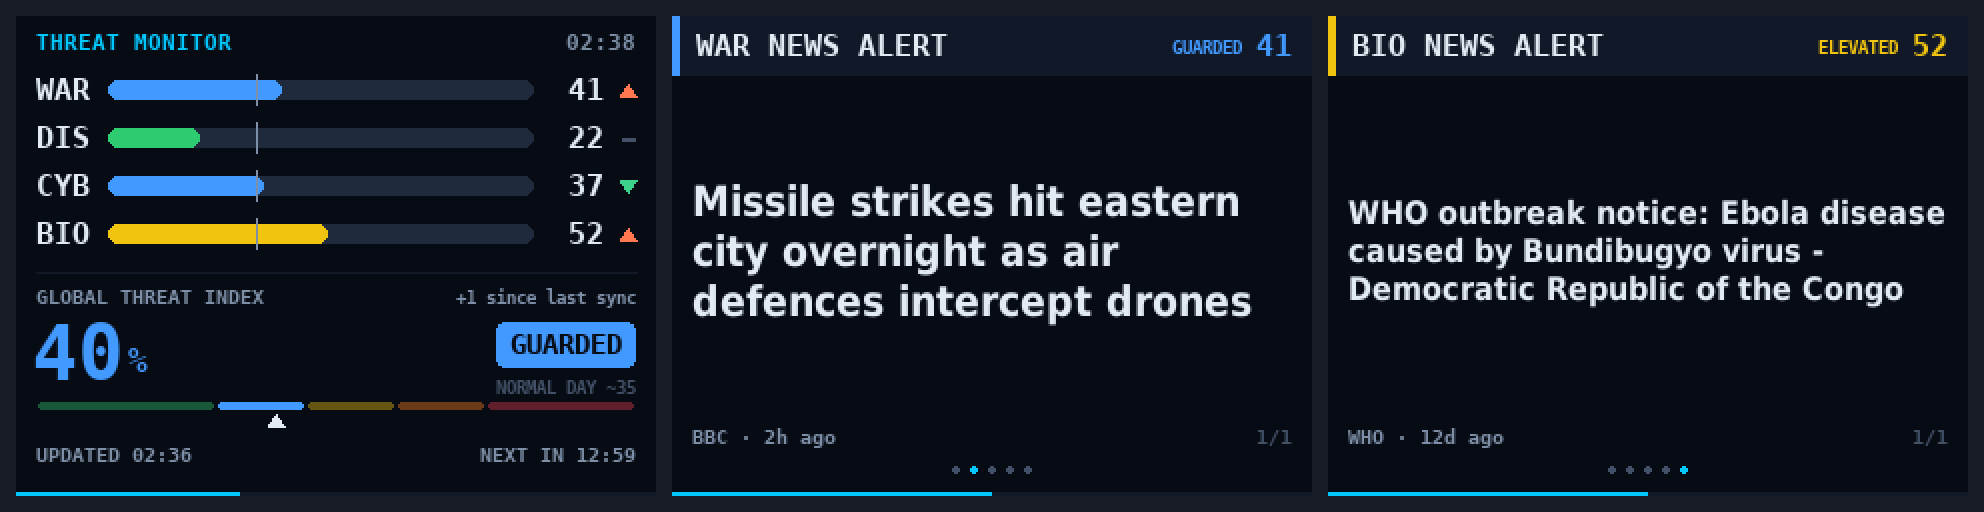
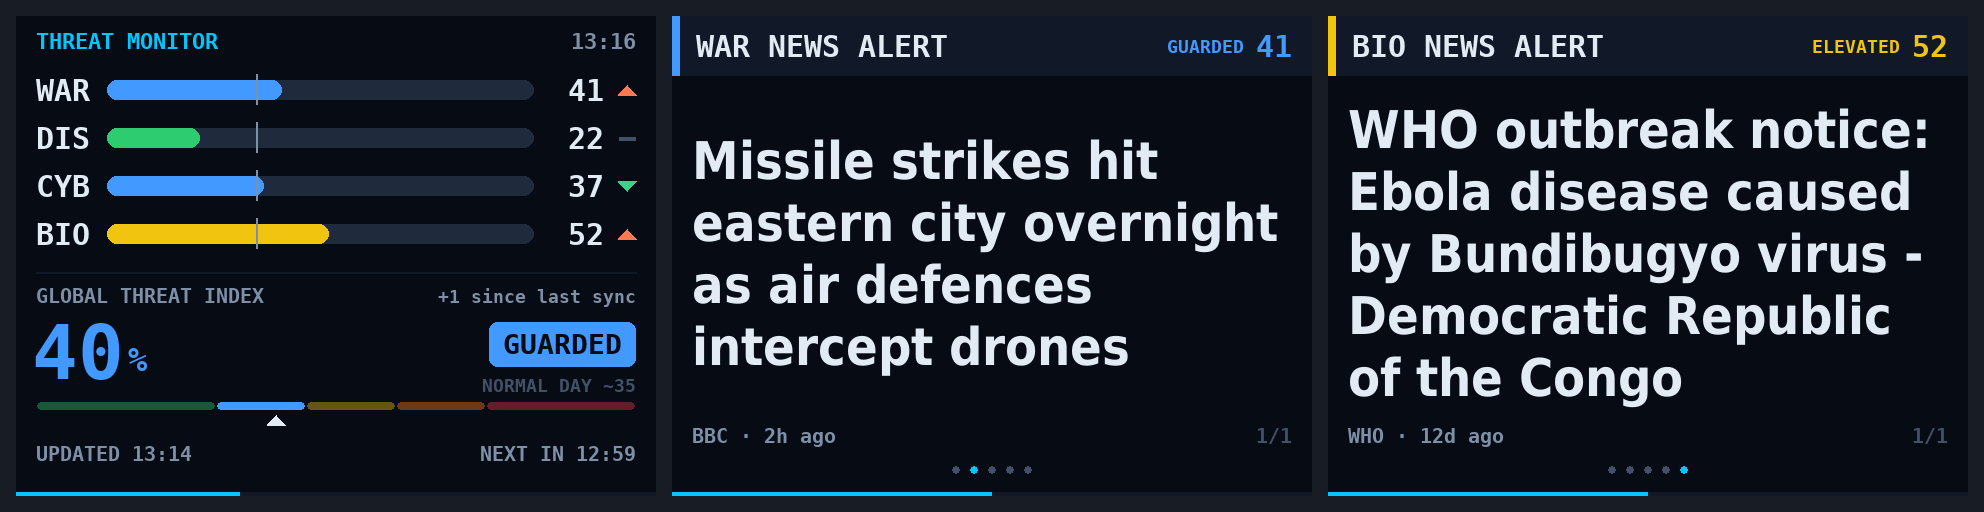
Headlines: one fixed, larger size (26) on every screen, up to 5 lines; smarter summaries (v3.6)
- Fixed headline size fills the empty space above and below the text, the
  same on the Raspberry Pi, the Windows screensaver and the Mac screensaver
- Too-long headlines are summarized at a natural break (subtitle after a
  colon, second sentence, comma, 'and/with/over/near/...'), drop trailing
  '| Publisher' and CVE numbers; '…' only when there is no break at all
- GDACS lists of many countries become 'Austria, Bosnia & Herzegovina and 27 more countries'
- Swift port and its parity tests updated to match

Claude-Session: https://claude.ai/code/session_01Vdy2ZLRvBpwGpUEKWRefAa

diff --git a/mac/Sources/Core/Condense.swift b/mac/Sources/Core/Condense.swift
@@ -22,6 +22,7 @@ enum Text {
     static let magRx = Rx(#"\(Magnitude\s*([\d.]+)\s*M?[^)]*\)"#)
     static let gdacsDateRx = Rx(#"\s+\d{1,2}/\d{1,2}/\d{4}\s+\d{1,2}:\d{2}(:\d{2})?\s*UTC"#)
     static let mmiRx = Rx(#"\b(Few people affected|\d[\d.,]*(?: thousand| million)?)\s+in MMI ([IVX]+)\b"#, ci: true)
+    static let placesRx = Rx(#"^(.*?\bin )([A-Z][^,]*(?:, [A-Z][^,]*){3,}),?\s*$"#)
     static let mmiWords: [String: String] = [
         "I": "unfelt", "II": "weak", "III": "weak", "IV": "light", "V": "moderate",
         "VI": "strong", "VII": "very strong", "VIII": "severe", "IX": "violent", "X": "extreme",
@@ -39,6 +40,17 @@ enum Text {
             let people = who.lowercased().hasPrefix("few") ? "few people" : "\(who) people"
             return "\(people) in \(mmiWords[level.uppercased()] ?? "MMI " + level) shaking"
         }
+        // "Drought is on going in Austria, Belgium, ... Ukraine," (29 countries) ->
+        // "Drought is on going in Austria, Belgium and 27 more countries"
+        if let m = placesRx.matches(t).first {
+            let ns = t as NSString
+            let lead = Rx.group(m, 1, ns) ?? ""
+            let places = (Rx.group(m, 2, ns) ?? "").components(separatedBy: ",")
+                .map { $0.trimmingCharacters(in: .whitespacesAndNewlines) }.filter { !$0.isEmpty }
+            if places.count >= 4 {
+                t = "\(lead)\(places[0]), \(places[1]) and \(places.count - 2) more countries"
+            }
+        }
         return Py.strip(Py.join(t), ". ", left: false)
     }
 
@@ -48,6 +60,7 @@ enum Text {
     static let tailRxs: [Rx] = [
         Rx(#"\s*[|–—-]\s*(live( updates| blog)?|as it happened|latest( updates)?|report|video|photos|opinion|analysis|explainer)\s*$"#, ci: true),
         Rx(#",?\s+according to [^,;]+$"#, ci: true),
+        Rx(#"\s+\|\s+[^|]{2,40}$"#),                         // "... | Newswise"
         Rx(#",\s+(\S+\s+){0,3}(says?|said|reports?|reported|claims?|claimed|warns?|warned|confirms?|confirmed|announces?|announced)\s*$"#, ci: true),
     ]
     static let leadAttrRx = Rx(#"^(officials?|police|authorities|reports?|sources|witnesses|experts?|analysts?|scientists|researchers|state media|residents)\s+(say|said|warn|warned|fear|believe|confirm|confirmed)\s+(that\s+)?"#, ci: true)
@@ -70,12 +83,15 @@ enum Text {
         (Rx(#"(?i)\btelecommunications\b"#), "telecoms"),
         (Rx(#"(?i)\bgovernment\b"#), "govt"),
         (Rx(#"\bVulnerability\b"#), "flaw"),
+        (Rx(#"\bCVE-\d{4}-\d+:?\s*"#), ""),                // CISA: the number means little on screen
     ]
     static let fillerRx = Rx(#"\b(a|an|the|reportedly|currently)\s+"#, ci: true)
     /// Where a trailing clause can be dropped.
     static let clauseRx = Rx(#"(;\s|,\s(?=(?:as|after|while|amid|with|despite|which|who|but|before|including|where|when|days|weeks|hours|months)\b)|,\s(?=[a-z][a-z-]*ing\b)|\s(?=(?:as|after|amid|while|despite|ahead of|that|which|days after|weeks after|hours after)\s))"#, ci: true)
     /// " - DR Congo": often a place, so cut last.
     static let dashRx = Rx(#"\s[–—-]\s"#)
+    /// Last resort before "…": any natural break, longest summary first.
+    static let cutRx = Rx(#"(:\s|(?:(?<=\w\w[?!])|(?<=[a-z]{3}\.))\s|,\s|\s(?=(?:[Aa]nd|[Ww]ith|[Ww]ithout|[Nn]ear|[Oo]ver|[Ff]or|[Ff]rom|[Ii]nto|[Vv]ia|[Tt]o|[Ii]n [Hh]onou?r [Oo]f)\s))"#)
     static let clauseMinWords = 6
     static let dangling: Set<String> = [
         "a", "an", "the", "and", "or", "of", "to", "in", "on", "at", "for", "with", "by", "from",
@@ -133,6 +149,8 @@ enum Text {
             }
         }
         clauseCuts(t, dashRx)
+        // 6. last resort: the longest part that ends at any natural break
+        clauseCuts(t, cutRx)
         return (seen, tidy(t))
     }
 
@@ -158,7 +176,8 @@ enum Text {
 
     /// Every pattern used for headlines (the tests compare them with Python).
     static var allRx: [Rx] {
-        [suffixRx, normRx, magRx, gdacsDateRx, mmiRx, labelRx, bracketRx, leadAttrRx, fillerRx, clauseRx, dashRx]
+        [suffixRx, normRx, magRx, gdacsDateRx, mmiRx, placesRx, labelRx, bracketRx, leadAttrRx, fillerRx, clauseRx,
+         dashRx, cutRx]
             + tailRxs + abbreviations.map { $0.rx }
     }
 }

diff --git a/mac/Sources/Saver/Renderer.swift b/mac/Sources/Saver/Renderer.swift
@@ -63,7 +63,7 @@ final class Renderer {
     private var oy: CGFloat = 0
     private var m: CGFloat = 10
     private var fonts: [String: NSFont] = [:]
-    private var layouts: [String: (lines: [String], size: Int)] = [:]
+    private var layouts: [String: [String]] = [:]
     private var anim: [String: Double] = [:]
     private var gtiAnim: Double?
     private let clock: DateFormatter = {
@@ -206,32 +206,30 @@ final class Renderer {
         return lines
     }
 
-    /// A headline in at most 3 lines: the original at the largest size that
-    /// fits, else the gentlest condensed version that fits, else a "…" cut.
-    func headlineLayout(_ str: String, _ maxW: CGFloat) -> (lines: [String], size: Int) {
-        let key = "\(maxW)|\(str)"
+    /// How many headline lines fit in the headline area (at most headlineMaxLines).
+    func headlineLines() -> Int {
+        let lh = (lineHeight(font(.sans, CGFloat(TM.headlineSize))) * 1.02).rounded(.down)
+        let room = s(CGFloat(TM.headlineArea.bottom)) - s(CGFloat(TM.headlineArea.top))
+        return max(1, min(TM.headlineMaxLines, Int(room / max(1, lh))))
+    }
+
+    /// A headline at the fixed headline size in at most `maxLines` lines: the
+    /// original if it fits, else the gentlest summary that fits, else a "…" cut.
+    func headlineLayout(_ str: String, _ maxW: CGFloat, _ maxLines: Int) -> [String] {
+        let key = "\(maxW)|\(maxLines)|\(str)"
         if let hit = layouts[key] { return hit }
-        let big = TM.headlineSizes.big, small = TM.headlineSizes.small
-        var result: (lines: [String], size: Int)?
+        let f = font(.sans, CGFloat(TM.headlineSize))
+        let fits: (String) -> Bool = { self.wrapLines($0, f, maxW).count <= maxLines }
         let steps = Text.condenseSteps(str)
-        search: for cand in steps.steps {
-            for size in stride(from: big, through: small, by: -1) {
-                let lines = wrapLines(cand, font(.sans, CGFloat(size)), maxW)
-                if lines.count <= TM.headlineMaxLines {
-                    result = (lines, size)
-                    break search
-                }
-            }
-        }
-        if result == nil {
-            let f = font(.sans, CGFloat(small))
-            let cut = Text.truncateWords({ self.wrapLines($0, f, maxW).count <= TM.headlineMaxLines }, steps.condensed)
-            result = (wrapLines(cut, f, maxW), small)
+        let lines: [String]
+        if let best = steps.steps.first(where: fits) {
+            lines = wrapLines(best, f, maxW)
+        } else {
+            lines = wrapLines(Text.truncateWords(fits, steps.condensed), f, maxW)
         }
         if layouts.count > 200 { layouts.removeAll() }
-        let r: (lines: [String], size: Int) = result ?? (lines: [str], size: small)
-        layouts[key] = r
-        return r
+        layouts[key] = lines
+        return lines
     }
 
     // ---- animation of bar lengths only (numbers are always exact) ----------
@@ -435,12 +433,12 @@ final class Renderer {
             colour = Palette.text
         }
 
-        let top = y(40), bottom = y(196)
-        let lay = headlineLayout(title, W - 2 * m)
-        let f = font(.sans, CGFloat(lay.size))
+        let top = y(CGFloat(TM.headlineArea.top)), bottom = y(CGFloat(TM.headlineArea.bottom))
+        let lines = headlineLayout(title, W - 2 * m, headlineLines())
+        let f = font(.sans, CGFloat(TM.headlineSize))
         let lh = (lineHeight(f) * 1.02).rounded(.down)
-        let ty = top + max(0, ((bottom - top - CGFloat(lay.lines.count) * lh) / 2).rounded(.down))
-        for (i, l) in lay.lines.enumerated() {
+        let ty = top + max(0, ((bottom - top - CGFloat(lines.count) * lh) / 2).rounded(.down))
+        for (i, l) in lines.enumerated() {
             text(l, f, colour, CGPoint(x: m, y: ty + CGFloat(i) * lh))
         }
 

diff --git a/mac/Tests/CoreTests/main.swift b/mac/Tests/CoreTests/main.swift
@@ -125,6 +125,7 @@ checkPattern("lead", Text.leadAttrRx, cp["lead"])
 checkPattern("filler", Text.fillerRx, cp["filler"])
 checkPattern("clause", Text.clauseRx, cp["clause"])
 checkPattern("dash", Text.dashRx, cp["dash"])
+checkPattern("cut", Text.cutRx, cp["cut"])
 let tails = arr(cp["tails"])
 expect("patterns", tails.count == Text.tailRxs.count, "tail pattern count")
 for (i, t) in tails.enumerated() where i < Text.tailRxs.count { checkPattern("tail \(i)", Text.tailRxs[i], t) }
@@ -179,7 +180,7 @@ let swiftConstants: [String: Any] = [
     "GOOGLE_NEWS": TM.googleNews, "GTI_WEIGHTS": TM.gtiWeights, "DEFAULT_NORMAL": TM.defaultNormal,
     "GDACS_GREEN_BY_TYPE": TM.gdacsGreenByType, "GDACS_LEVEL": TM.gdacsLevel, "USGS_PAGER": TM.usgsPager,
     "CAT_NAMES": TM.catNames, "EMPTY_MSG": TM.emptyMsg, "MMI_WORDS": Text.mmiWords, "CATS": TM.cats,
-    "HEADLINE_SIZES": [TM.headlineSizes.big, TM.headlineSizes.small],
+    "HEADLINE_SIZE": TM.headlineSize, "HEADLINE_AREA": [TM.headlineArea.top, TM.headlineArea.bottom],
     "DANGLING": Array(Text.dangling).sorted(), "COMPONENT_KEYS": Config.componentKeys.sorted(),
 ]
 var gc = obj(golden["constants"])

diff --git a/mac/Sources/Core/Config.swift b/mac/Sources/Core/Config.swift
@@ -75,8 +75,9 @@ enum TM {
     static let mainSecs: Double = 12
     static let catSecs: Double = 8
     static let fadeSecs: Double = 0.25
-    static let headlineMaxLines = 3
-    static let headlineSizes: (big: Int, small: Int) = (21, 16)
+    static let headlineSize = 26             // fixed headline font, in 320x240 units
+    static let headlineMaxLines = 5          // longer headlines are summarized to fit
+    static let headlineArea: (top: Int, bottom: Int) = (38, 200)
     static let levels: [(limit: Int, name: String)] = [
         (30, "LOW"), (45, "GUARDED"), (60, "ELEVATED"), (75, "HIGH"), (101, "SEVERE"),
     ]

diff --git a/threat_monitor.py b/threat_monitor.py
@@ -1,6 +1,6 @@
-# SYSTEM THREAT MONITOR  v3.5
+# SYSTEM THREAT MONITOR  v3.6
 # Created and maintained by Oliver Kuy - https://github.com/kuydigital/threat_monitor
-# Revised: Sunday, October 11, 2026, 1:34 AM (Philippine time)
+# Revised: Wednesday, October 14, 2026, 1:40 PM (Philippine time)
 #
 # Run:   python3 threat_monitor.py                    (fullscreen, live data)
 #        python3 threat_monitor.py --windowed 320x240 (in a window)
@@ -27,9 +27,10 @@
 #     or crashed sync can never leave the screen on "Contacting sources", the
 #     background fetcher restarts itself if it ever stops, and everything is
 #     logged to threat_monitor.log next to this script.
-#   * Headlines are shown in at most 3 lines; longer ones are condensed
-#     (labels, attributions and filler removed, names abbreviated, trailing
-#     clauses dropped) and only cut with "…" as a last resort.
+#   * Headlines use one fixed, large size on every screen (HEADLINE_SIZE) in
+#     at most 5 lines; longer ones are summarized (labels, attributions and
+#     filler removed, names abbreviated, trailing clauses and subtitles
+#     dropped at a natural break) and only cut with "…" as a last resort.
 # -----------------------------------------------------------------------------
 
 import argparse
@@ -565,6 +566,12 @@ def tidy_gdacs_title(title):
         who = "few people" if m.group(1).lower().startswith("few") else f"{m.group(1)} people"
         return f"{who} in {MMI_WORDS.get(m.group(2).upper(), 'MMI ' + m.group(2))} shaking"
     t = re.sub(r"\b(Few people affected|\d[\d.,]*(?: thousand| million)?)\s+in MMI ([IVX]+)\b", mmi, t, flags=re.I)
+    # "Drought is on going in Austria, Belgium, ... Ukraine," (29 countries) ->
+    # "Drought is on going in Austria, Belgium and 27 more countries"
+    m = re.match(r"^(.*?\bin )([A-Z][^,]*(?:, [A-Z][^,]*){3,}),?\s*$", t)
+    if m:
+        places = [p.strip() for p in m.group(2).split(",") if p.strip()]
+        t = f"{m.group(1)}{places[0]}, {places[1]} and {len(places) - 2} more countries"
     return " ".join(t.split()).rstrip(". ")
 
 
@@ -632,6 +639,7 @@ _TAIL_RES = [
     re.compile(r"\s*[|–—-]\s*(live( updates| blog)?|as it happened|latest( updates)?|report|video|"
                r"photos|opinion|analysis|explainer)\s*$", re.I),
     re.compile(r",?\s+according to [^,;]+$", re.I),
+    re.compile(r"\s+\|\s+[^|]{2,40}$"),              # "... | Newswise"
     re.compile(r",\s+(\S+\s+){0,3}(says?|said|reports?|reported|claims?|claimed|warns?|warned|"
                r"confirms?|confirmed|announces?|announced)\s*$", re.I),
 ]
@@ -657,6 +665,7 @@ _ABBREVIATIONS = [
     (r"(?i)\btelecommunications\b", "telecoms"),
     (r"(?i)\bgovernment\b", "govt"),
     (r"\bVulnerability\b", "flaw"),
+    (r"\bCVE-\d{4}-\d+:?\s*", ""),                     # CISA: the number means little on screen
 ]
 _ABBREVIATIONS = [(re.compile(p), r) for p, r in _ABBREVIATIONS]
 _FILLER_RE = re.compile(r"\b(a|an|the|reportedly|currently)\s+", re.I)
@@ -668,6 +677,12 @@ _CLAUSE_RE = re.compile(          # where a trailing clause can be dropped
     r"|\s(?=(?:as|after|amid|while|despite|ahead of|that|which|days after|weeks after|hours after)\s))",
     re.I)
 _DASH_RE = re.compile(r"\s[–—-]\s")       # " - DR Congo": often a place, so cut last
+_CUT_RE = re.compile(            # last resort before "…": any natural break, longest summary first
+    r"(:\s"                                          # "Headline: subtitle"
+    r"|(?:(?<=\w\w[?!])|(?<=[a-z]{3}\.))\s"          # end of a sentence ("Jr." and "U.S." are not)
+    r"|,\s"                                          # any comma
+    r"|\s(?=(?:[Aa]nd|[Ww]ith|[Ww]ithout|[Nn]ear|[Oo]ver|[Ff]or|[Ff]rom|[Ii]nto|[Vv]ia|[Tt]o|"
+    r"[Ii]n [Hh]onou?r [Oo]f)\s))")
 CLAUSE_MIN_WORDS = 6           # never cut a headline down to fewer words than this
 _DANGLING = {"a", "an", "the", "and", "or", "of", "to", "in", "on", "at", "for", "with", "by", "from",
              "as", "after", "amid", "while", "but", "that", "its", "their", "his", "her", "is", "are", "was",
@@ -722,6 +737,8 @@ def condense_steps(text):
         emit(t)
         clause_cuts(t, _CLAUSE_RE)
     clause_cuts(t, _DASH_RE)
+    # 6. last resort: the longest part that ends at any natural break
+    clause_cuts(t, _CUT_RE)
     return seen, _tidy(t)   # last value: fully condensed text without cuts (for "…" fallback)
 
 
@@ -1051,8 +1068,9 @@ MONO_FONTS = "dejavusansmono,liberationmono,consolas,menlo,ubuntumono,couriernew
 SANS_FONTS = "dejavusans,liberationsans,arial,helvetica,ubuntu,freesans"
 
 DEFAULT_WINDOW = (960, 720)   # window size when F switches from full screen to a window
-HEADLINE_MAX_LINES = 3
-HEADLINE_SIZES = (21, 16)      # largest / smallest headline font, in 320x240 units
+HEADLINE_SIZE = 26             # headline font, in 320x240 units - the same on every screen
+HEADLINE_MAX_LINES = 5         # longer headlines are summarized to fit
+HEADLINE_AREA = (38, 200)      # top and bottom of the headline area, in 320x240 units
 
 MAIN_SECS, CAT_SECS = 12, 8
 FPS = 15
@@ -1257,28 +1275,27 @@ class Display:
             lines.append(cur)
         return lines
 
-    def headline_layout(self, text, max_w):
-        """(lines, size, condensed?) for a headline in at most HEADLINE_MAX_LINES
-        lines: the original at the largest font that fits, else the gentlest
-        condensed version that fits, else a '…' cut. Cached per headline."""
-        key = (text, max_w)
+    def headline_lines(self):
+        """How many headline lines fit in the headline area (at most HEADLINE_MAX_LINES)."""
+        top, bottom = HEADLINE_AREA
+        lh = int(self.font("sans", HEADLINE_SIZE).get_linesize() * 1.02)
+        return max(1, min(HEADLINE_MAX_LINES, (self.s(bottom) - self.s(top)) // lh))
+
+    def headline_layout(self, text, max_w, max_lines=HEADLINE_MAX_LINES):
+        """(lines, condensed?) for a headline at the fixed HEADLINE_SIZE in at
+        most max_lines lines: the original if it fits, else the gentlest
+        summary that fits, else a '…' cut. Cached per headline."""
+        key = (text, max_w, max_lines)
         hit = self._layouts.get(key)
         if hit:
             return hit
-        big, small = HEADLINE_SIZES
-        result = None
+        fits = lambda t: len(self.wrap_lines(t, "sans", HEADLINE_SIZE, max_w)) <= max_lines
         steps, condensed = condense_steps(text)
-        for i, cand in enumerate(steps):
-            for size in range(big, small - 1, -1):
-                lines = self.wrap_lines(cand, "sans", size, max_w)
-                if len(lines) <= HEADLINE_MAX_LINES:
-                    result = (lines, size, i > 0)
-                    break
-            if result:
-                break
-        if result is None:
-            fits = lambda t: len(self.wrap_lines(t, "sans", small, max_w)) <= HEADLINE_MAX_LINES
-            result = (self.wrap_lines(truncate_words(fits, condensed), "sans", small, max_w), small, True)
+        best = next(((i, cand) for i, cand in enumerate(steps) if fits(cand)), None)
+        if best is not None:
+            result = (self.wrap_lines(best[1], "sans", HEADLINE_SIZE, max_w), best[0] > 0)
+        else:
+            result = (self.wrap_lines(truncate_words(fits, condensed), "sans", HEADLINE_SIZE, max_w), True)
         if len(self._layouts) > 200:
             self._layouts.clear()
         self._layouts[key] = result
@@ -1445,12 +1462,12 @@ class Display:
         else:
             title, meta, page, colour = EMPTY_MSG[cat], "", "", MUTED
 
-        top, bottom = self.y(40), self.y(196)
-        lines, size, _ = self.headline_layout(title, W - 2 * m)
-        lh = int(self.font("sans", size).get_linesize() * 1.02)
+        top, bottom = self.y(HEADLINE_AREA[0]), self.y(HEADLINE_AREA[1])
+        lines, _ = self.headline_layout(title, W - 2 * m, self.headline_lines())
+        lh = int(self.font("sans", HEADLINE_SIZE).get_linesize() * 1.02)
         ty = top + max(0, (bottom - top - len(lines) * lh) // 2)
         for i, line in enumerate(lines):
-            self.blit(self.text(line, "sans", size, colour), (m, ty + i * lh))
+            self.blit(self.text(line, "sans", HEADLINE_SIZE, colour), (m, ty + i * lh))
 
         my = self.y(210)
         if meta:
@@ -1591,7 +1608,7 @@ def run_check():
     global LOG_STDOUT
     LOG_STDOUT = False
     now = datetime.now(timezone.utc)
-    print(f"Threat Monitor v3.5 source check - clock {now:%Y-%m-%d %H:%M} UTC, "
+    print(f"Threat Monitor v3.6 source check - clock {now:%Y-%m-%d %H:%M} UTC, "
           f"local {time.strftime('%Y-%m-%d %H:%M %Z')}")
     print(f"Data folder: {DATA_DIR}   learned history: {baseline_hours()} h")
     print(f"Fetching all sources (up to {SYNC_DEADLINE} s)...\n", flush=True)
@@ -1717,7 +1734,7 @@ def main():
     live = not (args.demo or args.snapshot)
     if live:
         LOG_FILE = os.path.join(DATA_DIR, "threat_monitor.log")
-        log("INFO", f"Threat Monitor v3.5 starting (data folder {DATA_DIR})")
+        log("INFO", f"Threat Monitor v3.6 starting (data folder {DATA_DIR})")
     import pygame
     disp = Display(pygame, size)
     disp.night_dim = bool(NIGHT_HOURS) and not args.no_dim

diff --git a/mac/Tests/make_golden.py b/mac/Tests/make_golden.py
@@ -107,6 +107,7 @@ g["condense_patterns"] = {
     "filler": [tm._FILLER_RE.pattern, flags(tm._FILLER_RE)],
     "clause": [tm._CLAUSE_RE.pattern, flags(tm._CLAUSE_RE)],
     "dash": [tm._DASH_RE.pattern, flags(tm._DASH_RE)],
+    "cut": [tm._CUT_RE.pattern, flags(tm._CUT_RE)],
 }
 g["feeds"] = {name: [{"key": f["key"], "label": f["label"], "window": f["window"], "scored": f["scored"],
                       "url": f["url"], "params": [[k, v] for k, v in (f["params"] or {}).items()]}
@@ -122,7 +123,8 @@ g["constants"] = {k: getattr(tm, k) for k in [
     "HEADLINE_MAX_LINES", "CLAUSE_MIN_WORDS", "WHO_DON_URL", "CISA_KEV_URL", "GOOGLE_NEWS",
     "GTI_WEIGHTS", "DEFAULT_NORMAL", "GDACS_GREEN_BY_TYPE", "GDACS_LEVEL", "USGS_PAGER", "CAT_NAMES",
     "EMPTY_MSG", "MMI_WORDS", "CATS"]}
-g["constants"]["HEADLINE_SIZES"] = list(tm.HEADLINE_SIZES)
+g["constants"]["HEADLINE_SIZE"] = tm.HEADLINE_SIZE
+g["constants"]["HEADLINE_AREA"] = list(tm.HEADLINE_AREA)
 g["constants"]["LEVELS"] = [[limit, name, list(color)] for limit, name, color in tm.LEVELS]
 g["constants"]["DANGLING"] = sorted(tm._DANGLING)
 g["constants"]["COMPONENT_KEYS"] = sorted(tm.COMPONENT_KEYS)
@@ -162,6 +164,11 @@ CRAFTED_TITLES = [
     "Israel strikes Gaza, killing dozens, as ceasefire talks stall amid pressure from the European Union and the United Arab Emirates",
     "Short headline",
     "A very long headline with lots of words that keeps going and going without any natural place to cut it at all because it has no commas or clauses and it never ends",
+    "EBOLA Infections EXPLODE to more than 9,000 cases in Congo as containment efforts falter",
+    "Is the \u201cAutism Epidemic\u201d Real, or Are We Better at Finding It? A Leading Pediatric Developmental Expert Weighs In on New JAMA Study | Newswise",
+    "Actively exploited: CVE-2026-88779 Citrix NetScaler Improper Restriction of Operations within the Bounds of a Memory Buffer Vulnerability",
+    "Sen. Warren demands answers from RFK Jr. over 'calamitous' response to cyclosporiasis outbreak in the U.S. Midwest this summer",
+    "Works on paper by Germany's most incisive post-war artists: Richter, Kiefer, Polke, Baselitz and Penck",
 ]
 titles.extend(CRAFTED_TITLES)
 titles = list(dict.fromkeys(t for t in titles if t))
@@ -207,6 +214,10 @@ gdacs_raw += [
     "Green earthquake (Magnitude 5.9M, Depth:45.951km) in Indonesia 03/10/2026 22:55 UTC, 130 thousand in MMI V",
     "Orange earthquake (Magnitude 6.8M, Depth:10km) in Japan 1/2/2026 3:04:05 UTC, Few people affected in MMI VII",
     "Red earthquake (Magnitude 7.4M, Depth:33km) in Chile 12/12/2026 10:00 UTC, 1.2 million in MMI IX",
+    "Drought is on going in Austria, Bosnia & Herzegovina, Belgium, Belarus, Switzerland, Czech Republic, "
+    "Germany, Denmark, Spain, France, Croatia, Hungary, Ireland, Italy, Liechtenstein, Luxembourg, Moldova, "
+    "Montenegro, Netherlands, Norway, Poland, Romania, Serbia, Russia, Sweden, Slovenia, Slovakia, San Marino, Ukraine,",
+    "Drought is on going in Brazil, Argentina, Paraguay",
 ]
 g["gdacs_titles"] = [[t, tm.tidy_gdacs_title(t)] for t in dict.fromkeys(gdacs_raw)]
 
